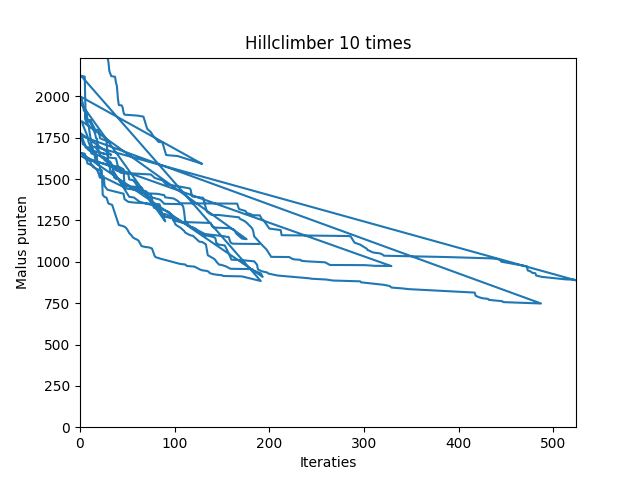
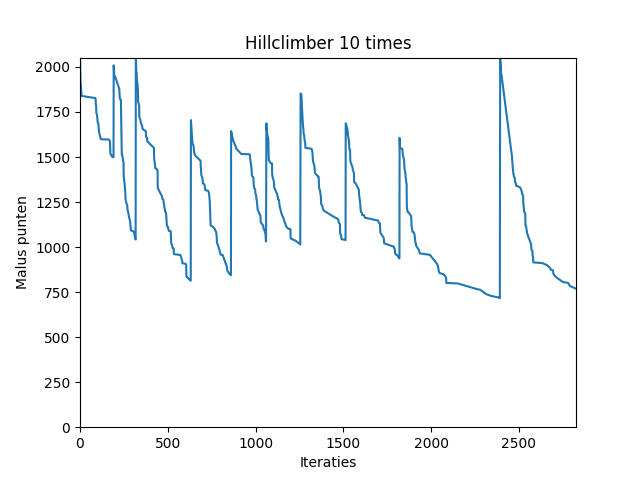
Hillclimber Nplots doet het

diff --git a/code/algorithms/hillclimber.py b/code/algorithms/hillclimber.py
@@ -72,6 +72,10 @@ class Hillclimber_activities:
             # Hillclimber
             mp, iterations = self.run(threshold, False)
             
+            if i != 0:
+                end = iterations_list[-1][-1]
+                iterations = [(x + end) for x in iterations]
+
             # Save results
             mp_list.append(mp)
             iterations_list.append(iterations)
@@ -114,7 +118,7 @@ class Hillclimber_activities:
             plt.suptitle("Hillclimber")
             ax.set_xlabel("Iteraties")
             ax.set_ylabel("Malus punten")
-            
+
             ims = []
 
             x = []
